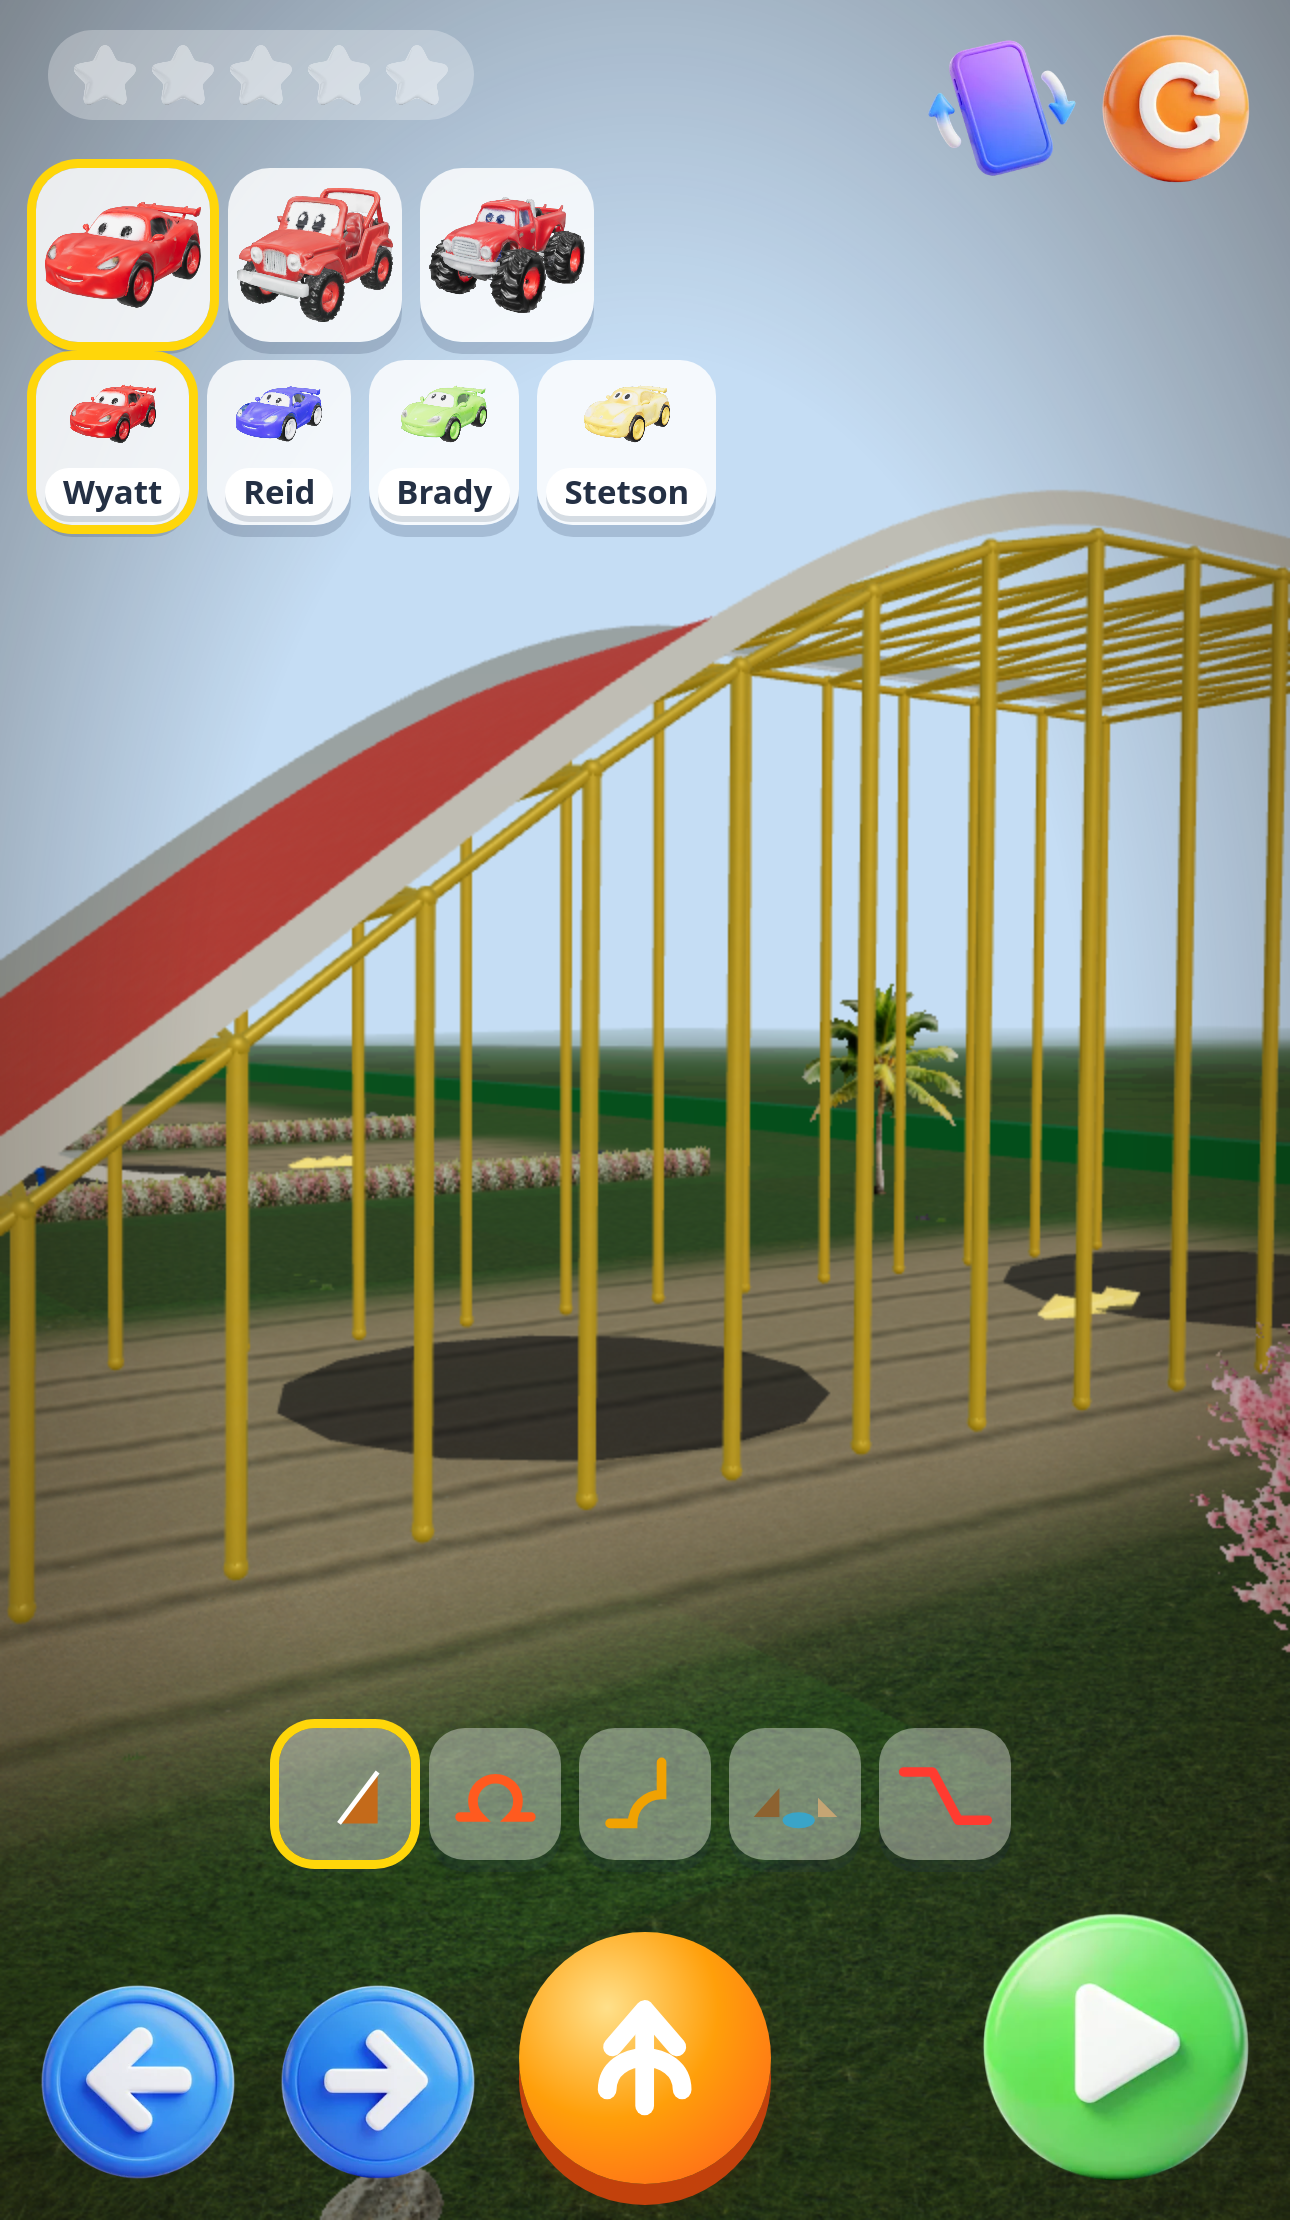
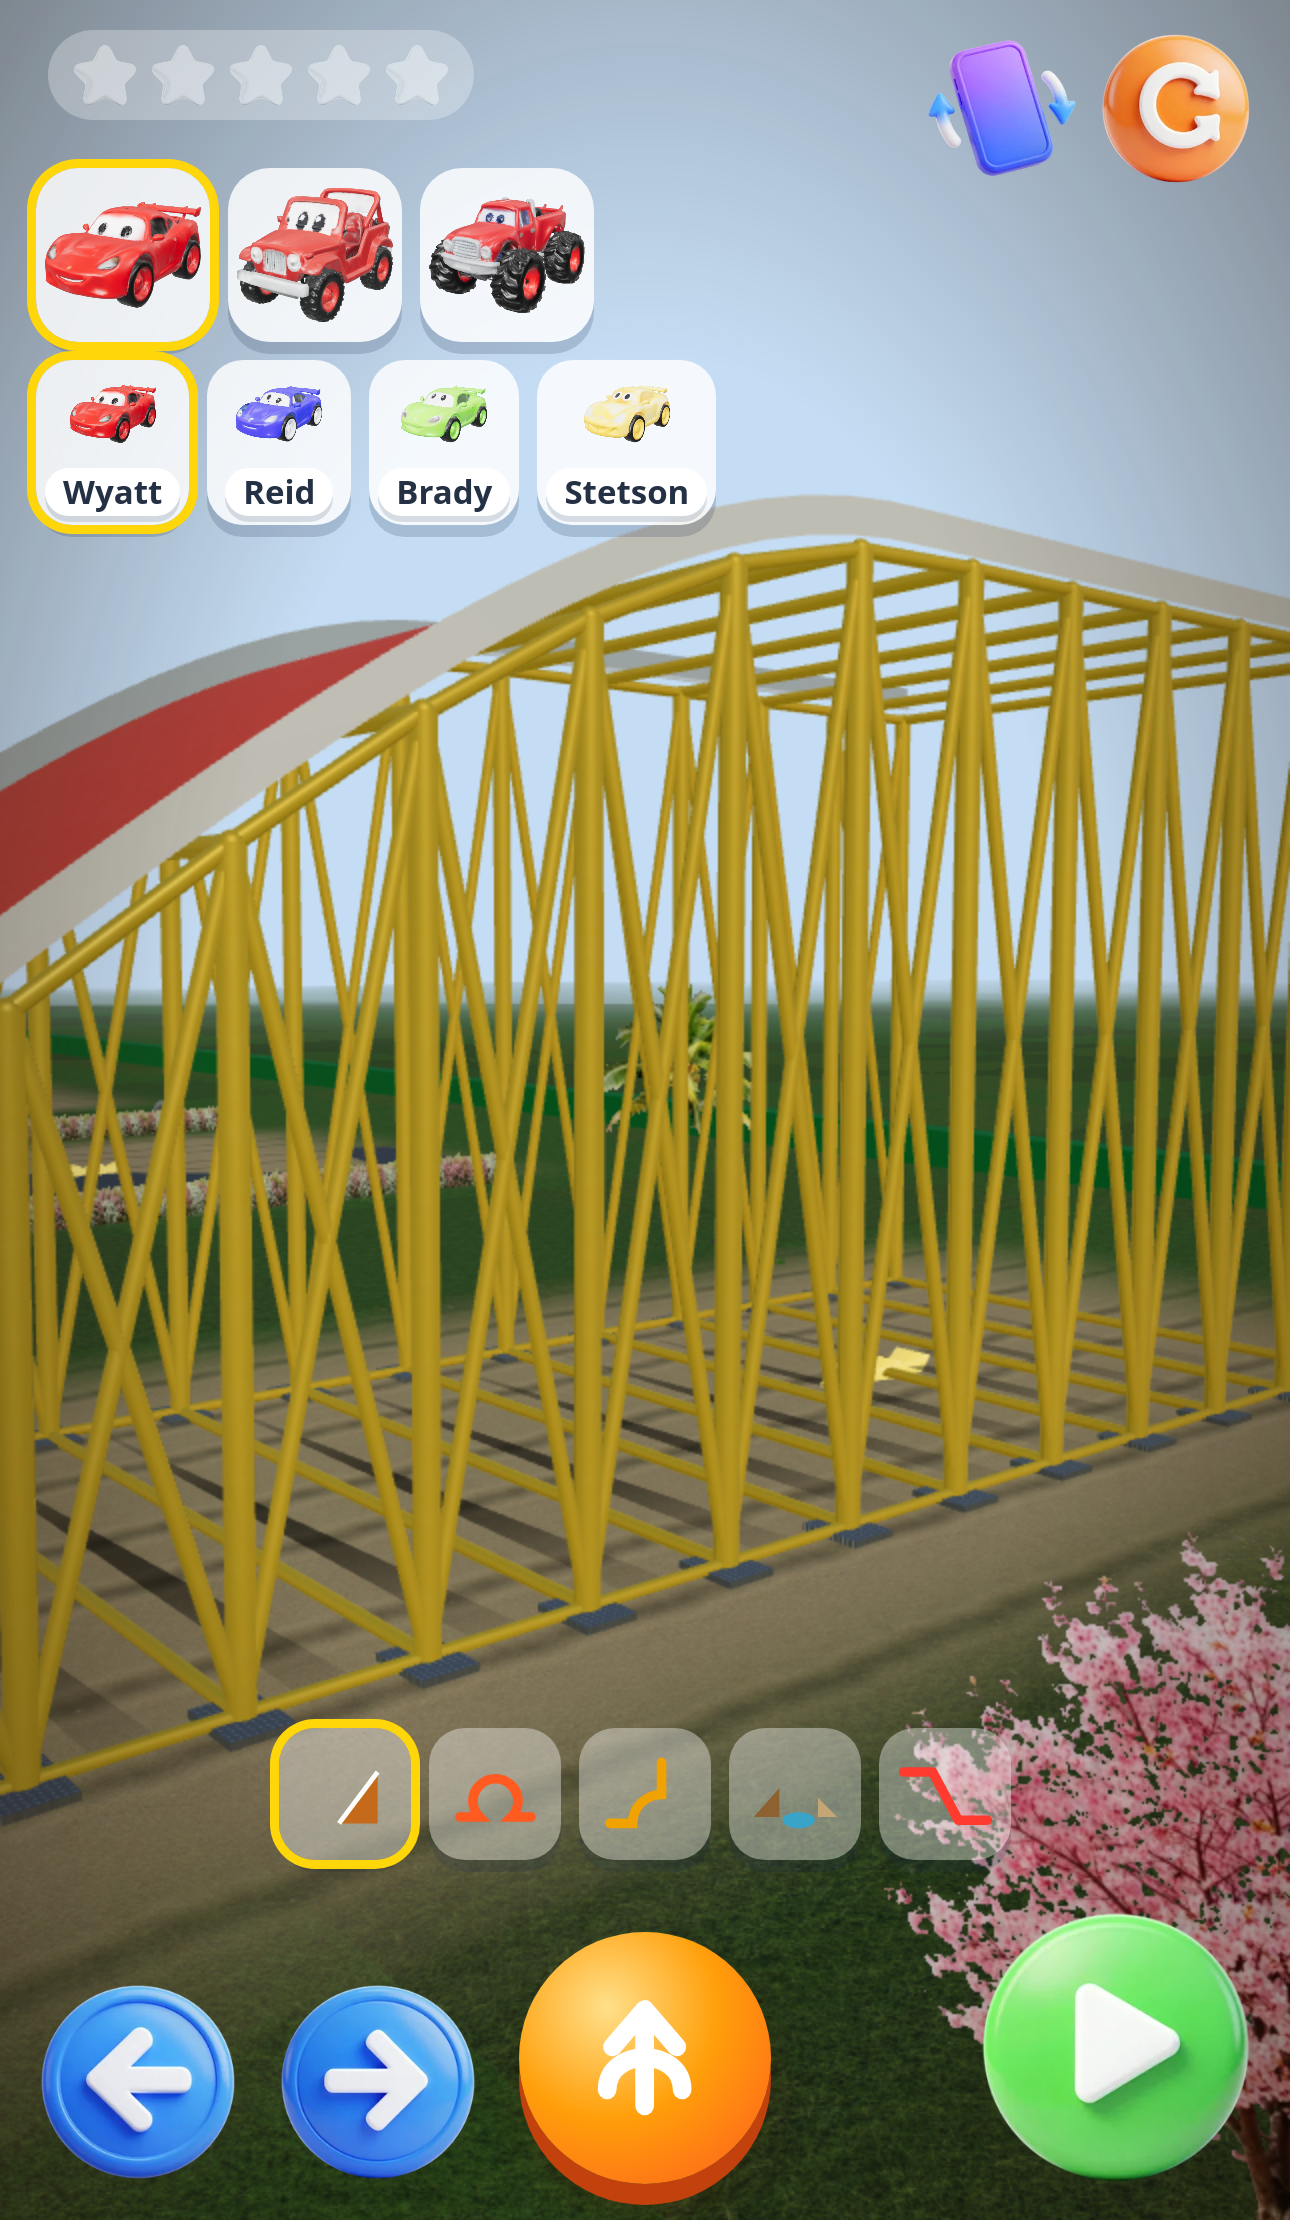
Brace the mega ramp and soften its ground shadow. (#19)
The legs are thicker, with an X and a tie between each pair and a plate under every foot. The hard black circle is a soft shadow along the ramp footprint.

diff --git a/src/game/stuntShow.ts b/src/game/stuntShow.ts
@@ -49,6 +49,7 @@ interface Build {
   shell: THREE.BufferGeometry[];
   bumper: THREE.BufferGeometry[];
   ao: THREE.BufferGeometry[];
+  foot: THREE.BufferGeometry[];
   steel: Tube[];
   steelBlue: Tube[];
   coping: Tube[];
@@ -59,12 +60,12 @@ interface Build {
 export async function buildStuntShow(opts: { base: string; mobile: boolean }): Promise<THREE.Group> {
   const build: Build = {
     deck: [], loopDeck: [], ply: [], diamond: [], stripe: [], hazard: [], hazardEdge: [],
-    rail: [], shell: [], bumper: [], ao: [], steel: [], steelBlue: [], coping: [],
+    rail: [], shell: [], bumper: [], ao: [], foot: [], steel: [], steelBlue: [], coping: [],
     nodes: [], nodesBlue: [],
   };
   addLoop(build);
   addSlope(build, build.steel, build.deck, 0, 50, 78, 6.4, (z) => launchHeight(z), true);
-  addSlope(build, build.steel, build.deck, MEGA.laneX, 2, MEGA.dropZ1, 6.2, megaRunHeight, true);
+  addSlope(build, build.steel, build.deck, MEGA.laneX, 2, MEGA.dropZ1, 6.2, megaRunHeight, true, true);
   addSlope(build, build.steelBlue, build.deck, GAP.laneX, GAP.rampZ0, GAP.rampZ1 + 0.2, 6.0, gapRampHeight, true);
   addSlope(build, build.steelBlue, build.diamond, GAP.laneX, GAP.landZ0 - 0.2, GAP.landZ0 + 22, 6.0, gapLandHeight, false);
   addQuarter(build);
@@ -117,6 +118,16 @@ export async function buildStuntShow(opts: { base: string; mobile: boolean }): P
 
   const ao = slot('contact-ao', { color: 0x000000, transparent: true, opacity: 0.62, roughness: 1, depthWrite: false });
   pushMerged(group, build.ao, ao, false);
+  const footMat = new THREE.MeshBasicMaterial({
+    name: 'contact-footprint',
+    map: softFootprint(),
+    transparent: true,
+    depthWrite: false,
+    color: 0x000000,
+  });
+  footMat.polygonOffset = true;
+  footMat.polygonOffsetFactor = -1;
+  pushMerged(group, build.foot, footMat, false);
 
   const yellow = slot('steel-yellow', { color: 0xffffff, roughness: 1, metalness: 0.62 });
   paint(yellow, tex.yellow, null, tex.yellowR, 1, 1, true);
@@ -451,6 +462,7 @@ function addSlope(
   half: number,
   heightAt: (z: number) => number,
   chevron: boolean,
+  dense = false,
 ): void {
   const frames = slopeFrames(lane, z0, z1, heightAt);
   const colors = frames.map(() => WHITE);
@@ -461,21 +473,29 @@ function addSlope(
   build.rail.push(wall(frames, -half, 0.55));
   if (chevron) build.hazard.push(chevronStrip(frames, half));
   const nodes = steel === build.steel ? build.nodes : build.nodesBlue;
+  const spacing = dense ? 1.7 : 2.3;
+  const legR = dense ? 0.2 : 0.14;
   let prev: { l: THREE.Vector3; r: THREE.Vector3; footL: THREE.Vector3; footR: THREE.Vector3 } | null = null;
   let lastZ = -1e9;
   for (const frame of frames) {
-    if (frame.y < 0.9 || frame.z - lastZ < 2.3) continue;
+    if (frame.y < 0.9 || frame.z - lastZ < spacing) continue;
     lastZ = frame.z;
     const l = offset(frame, -(half + 0.15), -0.2);
     const r = offset(frame, half + 0.15, -0.2);
     const footL = new THREE.Vector3(frame.x - half - 0.15, 0.12, frame.z);
     const footR = new THREE.Vector3(frame.x + half + 0.15, 0.12, frame.z);
-    steel.push(tube(footL, l, 0.14), tube(footR, r, 0.14), tube(l, r, 0.1));
+    steel.push(tube(footL, l, legR), tube(footR, r, legR), tube(l, r, dense ? 0.13 : 0.1));
     nodes.push(l, r, footL, footR);
+    if (dense) {
+      steel.push(tube(footL, footR, 0.11));
+      build.diamond.push(plate(footL.x, 0.05, footL.z, 0.55, 0.42), plate(footR.x, 0.05, footR.z, 0.55, 0.42));
+    }
     if (prev) {
-      steel.push(tube(prev.l, l, 0.1), tube(prev.r, r, 0.1));
-      steel.push(tube(prev.l, r, 0.08), tube(prev.r, l, 0.08));
-      nodes.push(prev.l, prev.r);
+      steel.push(tube(prev.l, l, dense ? 0.12 : 0.1), tube(prev.r, r, dense ? 0.12 : 0.1));
+      steel.push(tube(prev.footL, footL, dense ? 0.1 : 0.08), tube(prev.footR, footR, dense ? 0.1 : 0.08));
+      steel.push(tube(prev.footL, l, dense ? 0.12 : 0.08), tube(prev.l, footL, dense ? 0.12 : 0.08));
+      steel.push(tube(prev.footR, r, dense ? 0.12 : 0.08), tube(prev.r, footR, dense ? 0.12 : 0.08));
+      nodes.push(prev.l, prev.r, prev.footL, prev.footR);
     }
     prev = { l, r, footL, footR };
   }
@@ -484,8 +504,11 @@ function addSlope(
     const pad = offset(lip, side * (half - 0.35), 0.15);
     build.bumper.push(box(pad.x, pad.y + 0.18, pad.z, 0.28, 0.16, 0.55));
   }
-  build.ao.push(disc(lane, z0 + 2, half * 0.95));
-  build.ao.push(disc(lane, (z0 + z1) * 0.5, half * 0.8));
+  if (dense) build.foot.push(footprint(frames, half + 1.1));
+  else {
+    build.ao.push(disc(lane, z0 + 2, half * 0.45));
+    build.ao.push(disc(lane, (z0 + z1) * 0.5, half * 0.4));
+  }
 }
 
 function addQuarter(build: Build): void {
@@ -762,6 +785,53 @@ function box(x: number, y: number, z: number, hx: number, hy: number, hz: number
   const geo = new THREE.BoxGeometry(hx * 2, hy * 2, hz * 2);
   geo.translate(x, y, z);
   return geo;
+}
+
+function footprint(frames: PathPoint[], half: number): THREE.BufferGeometry {
+  const positions: number[] = [];
+  const uvs: number[] = [];
+  const indices: number[] = [];
+  for (let i = 0; i < frames.length; i++) {
+    const frame = frames[i];
+    const along = frames.length === 1 ? 0.5 : i / (frames.length - 1);
+    positions.push(frame.x - half, 0.045, frame.z, frame.x + half, 0.045, frame.z);
+    uvs.push(0, along, 1, along);
+  }
+  for (let i = 0; i < frames.length - 1; i++) {
+    const a = i * 2;
+    indices.push(a, a + 1, a + 2, a + 2, a + 1, a + 3);
+  }
+  const geo = new THREE.BufferGeometry();
+  geo.setAttribute('position', new THREE.Float32BufferAttribute(positions, 3));
+  geo.setAttribute('uv', new THREE.Float32BufferAttribute(uvs, 2));
+  geo.computeVertexNormals();
+  return geo;
+}
+
+function softFootprint(): THREE.Texture {
+  const width = 128;
+  const height = 64;
+  const canvas = document.createElement('canvas');
+  canvas.width = width;
+  canvas.height = height;
+  const ctx = canvas.getContext('2d');
+  const image = ctx?.createImageData(width, height);
+  if (image) {
+    for (let y = 0; y < height; y++) {
+      for (let x = 0; x < width; x++) {
+        const across = Math.sin((x / (width - 1)) * Math.PI);
+        const along = Math.sin((y / (height - 1)) * Math.PI);
+        const alpha = Math.pow(across, 1.6) * Math.pow(along, 0.55);
+        const i = (y * width + x) * 4;
+        image.data[i + 3] = Math.round(alpha * 150);
+      }
+    }
+    ctx?.putImageData(image, 0, 0);
+  }
+  const tex = new THREE.CanvasTexture(canvas);
+  tex.colorSpace = THREE.NoColorSpace;
+  tex.needsUpdate = true;
+  return tex;
 }
 
 function disc(x: number, z: number, radius: number): THREE.BufferGeometry {
